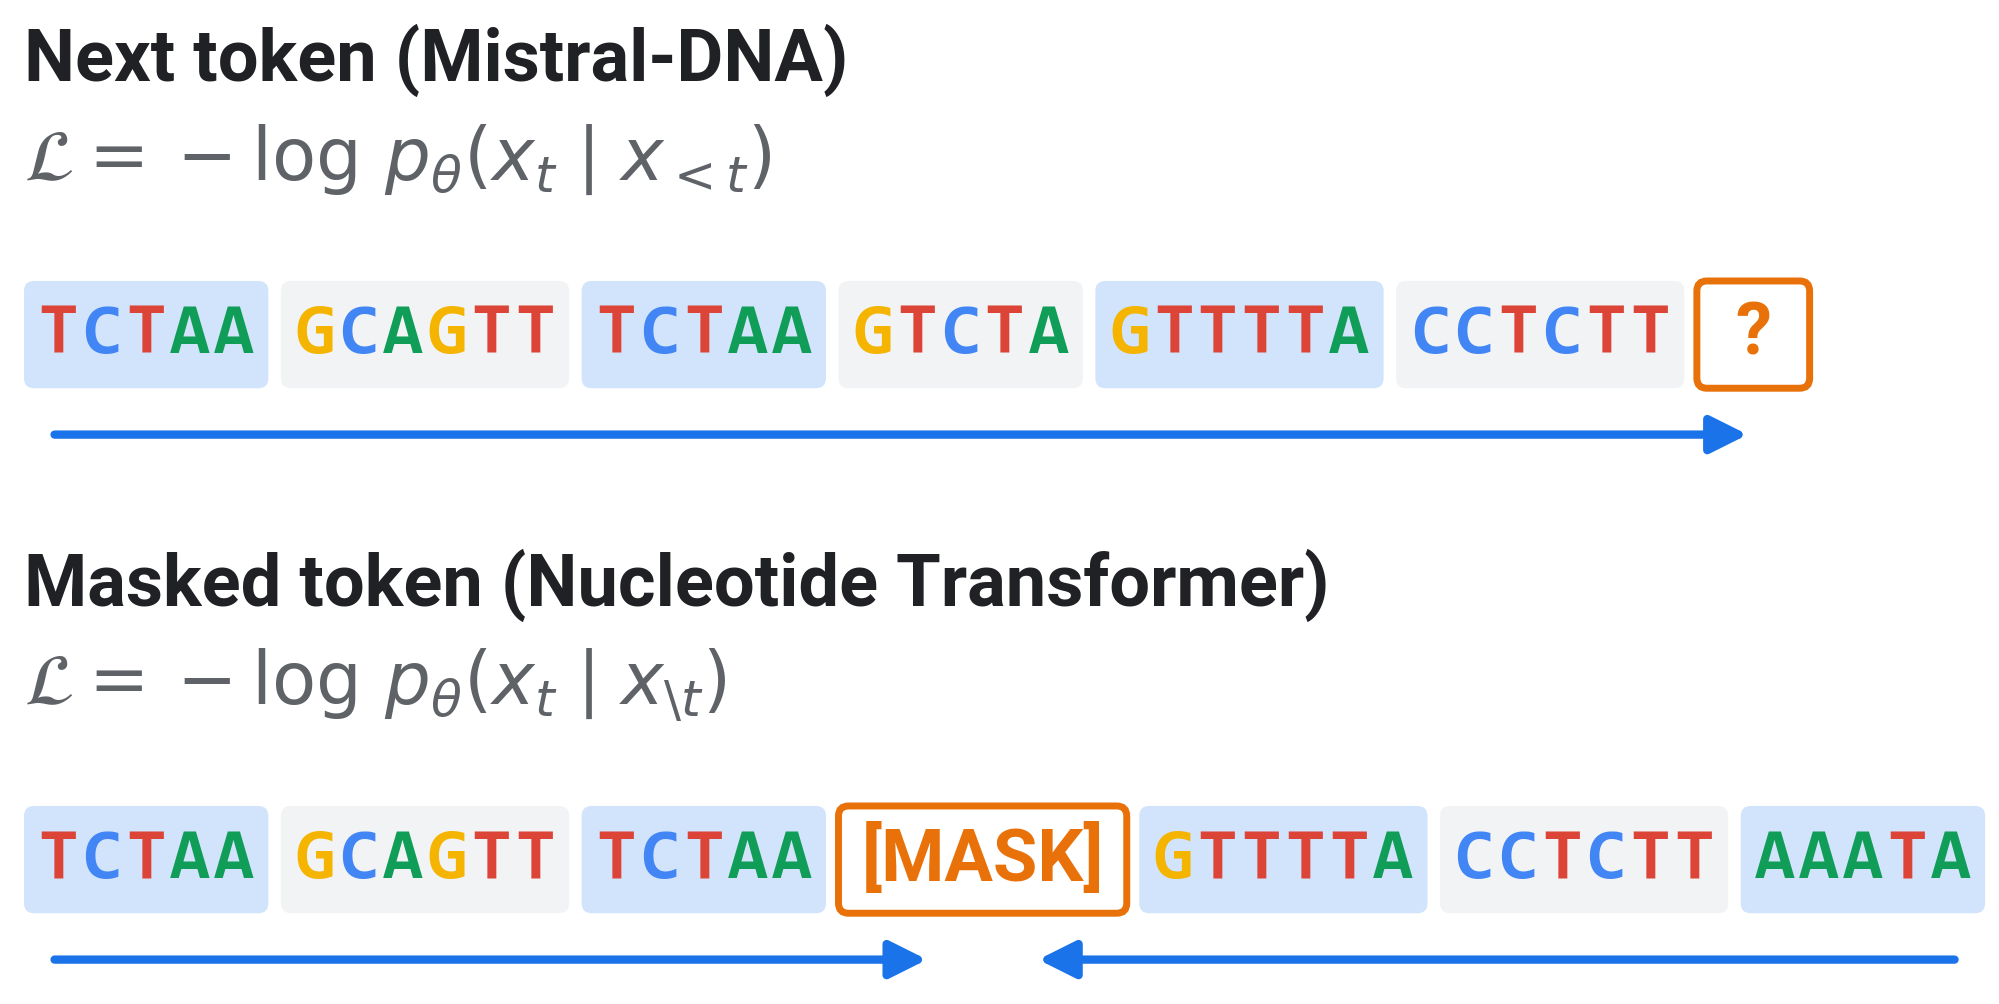
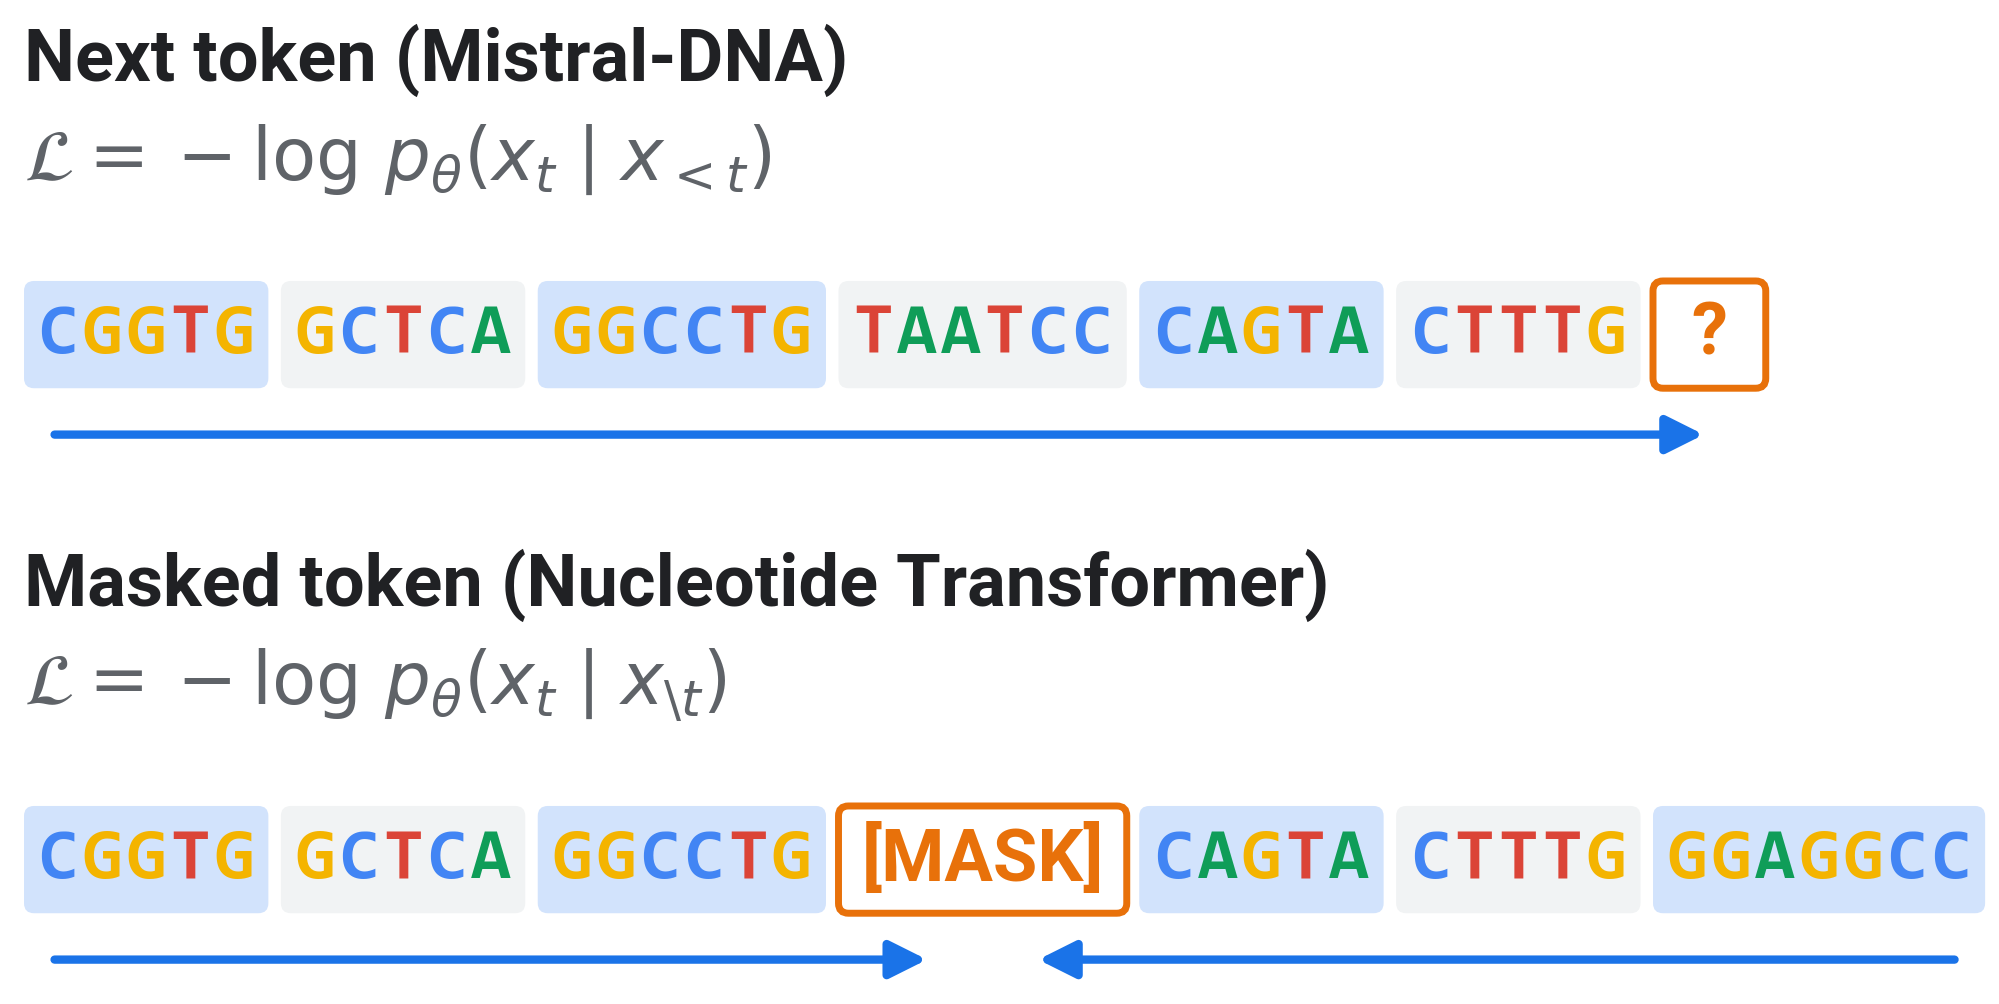
Deck 2: new 1.1 recaps part 1's CNN as body, embedding and head; next-token example where the true token is the top guess; body labels no longer cropped

diff --git a/slides/02_foundation_models.html b/slides/02_foundation_models.html
@@ -153,8 +153,34 @@
 
 </section>
 
+<section id="part-1-in-three-parts" class="slide level2">
+<h2>1.1 Part 1, in three parts</h2>
+<div class="quarto-figure quarto-figure-center">
+<figure>
+<p><img data-src="assets/custom/d2_cnn_recap.png" class="quarto-figure quarto-figure-center" height="766"></p>
+</figure>
+</div>
+<aside class="notes">
+<ul>
+<li>Our CNN from part 1, drawn the way the rest of this part draws every model.</li>
+<li>Body: the convolution blocks turn a sequence into numbers that describe it. Embedding: the 1,060 numbers after flatten. Head: the linear layer and the sigmoid turn them into one answer, P(bound).</li>
+<li>Here every part was trained from scratch on our 92,346 labelled sequences.</li>
+<li>This part keeps the picture and changes one thing: the body is learned first, from unlabelled genome sequence, and only a small head is trained on our labels.</li>
+</ul>
+<style type="text/css">
+        span.MJX_Assistive_MathML {
+          position:absolute!important;
+          clip: rect(1px, 1px, 1px, 1px);
+          padding: 1px 0 0 0!important;
+          border: 0!important;
+          height: 1px!important;
+          width: 1px!important;
+          overflow: hidden!important;
+          display:block!important;
+      }</style></aside>
+</section>
 <section id="pretraining-by-analogy" class="slide level2">
-<h2>1.1 Pretraining, by analogy</h2>
+<h2>1.2 Pretraining, by analogy</h2>
 <div class="r-stack">
 <p><img data-src="assets/custom/pretrain_analogy_0.png" height="742"></p>
 <p><img data-src="assets/custom/pretrain_analogy_1.png" class="fragment" height="742"></p>
@@ -179,7 +205,7 @@
       }</style></aside>
 </section>
 <section id="pretraining-a-model" class="slide level2">
-<h2>1.2 Pretraining a model</h2>
+<h2>1.3 Pretraining a model</h2>
 <div class="r-stack">
 <p><img data-src="assets/custom/d2_adapt_0.png" height="742"></p>
 </div>
@@ -203,7 +229,7 @@
       }</style></aside>
 </section>
 <section id="one-model-many-tasks" class="slide level2">
-<h2>1.3 One model, many tasks</h2>
+<h2>1.4 One model, many tasks</h2>
 <div class="r-stack">
 <p><img data-src="assets/custom/d2_adapt_1.png" height="742"></p>
 <p><img data-src="assets/custom/d2_adapt_2.png" class="fragment" height="742"></p>
@@ -230,7 +256,7 @@
       }</style></aside>
 </section>
 <section id="two-pretraining-objectives" class="slide level2">
-<h2>1.4 Two pretraining objectives</h2>
+<h2>1.5 Two pretraining objectives</h2>
 <div class="r-stack">
 <p><img data-src="assets/custom/d2_obj_0.png" height="723"></p>
 <p><img data-src="assets/custom/d2_obj_1.png" class="fragment" height="723"></p>
@@ -255,7 +281,7 @@
       }</style></aside>
 </section>
 <section id="what-the-model-predicts" class="slide level2">
-<h2>1.5 What the model predicts</h2>
+<h2>1.6 What the model predicts</h2>
 <div class="quarto-figure quarto-figure-center">
 <figure>
 <p><img data-src="assets/custom/d2_next.png" class="quarto-figure quarto-figure-center" height="766"></p>
@@ -263,9 +289,9 @@
 </div>
 <aside class="notes">
 <ul>
-<li>Mistral-DNA, given the real context of the last slide, gives a probability to each of its 4,096 possible next tokens. Blue: its six most likely tokens, with their probabilities. Orange: the token that actually comes next, AAATA.</li>
-<li>Its top choice gets 0.10. The true token gets less than 0.0001 and ranks 2,362 of 4,096: the model was wrong here.</li>
-<li>Much of the genome is hard to predict from local context, so the loss stays high even in a trained model.</li>
+<li>Mistral-DNA, given the real context of the last slides, gives a probability to each of its 4,096 possible next tokens. The bars are its eight most likely tokens.</li>
+<li>Orange: the token that actually comes next, GGAGGCC. It is the model’s top choice, at 0.33; the next guesses are longer or shorter versions of it.</li>
+<li>A well-chosen example: on most positions of the genome the true token gets a much lower probability, because much of the genome is hard to predict from local context. The loss stays high even in a trained model.</li>
 <li>The head turns one score per vocabulary token into these probabilities with the softmax (section 5).</li>
 </ul>
 <style type="text/css">
@@ -281,7 +307,7 @@
       }</style></aside>
 </section>
 <section id="four-stages" class="slide level2">
-<h2>1.6 Four stages</h2>
+<h2>1.7 Four stages</h2>
 <div class="r-stack">
 <p><img data-src="assets/custom/d2_stages_0.png" height="742"></p>
 <p><img data-src="assets/custom/d2_stages_1.png" class="fragment" height="742"></p>
@@ -295,7 +321,7 @@
 <li>The example is real: Mistral-DNA on the first 40 letters of one bound sequence (its first 6 tokens shown). One click per stage.</li>
 <li>Click, tokenization: the letters are cut into tokens (section 2).</li>
 <li>Click, embedding: each token becomes a row of 256 numbers taken from a learned table, its <strong>token embedding</strong> (section 3; the first 40 numbers shown). The same token always gets the same row.</li>
-<li>Click, body: the transformer turns them into <strong>contextual embeddings</strong>: still one row per token, but now each row depends on all the tokens (section 4). These are the embeddings of slide 1.2.</li>
+<li>Click, body: the transformer turns them into <strong>contextual embeddings</strong>: still one row per token, but now each row depends on all the tokens (section 4). These are the embeddings of slide 1.3.</li>
 <li>Click, head: in pretraining it predicts the next token; for our task, P(bound), the probability that AGO2 binds (section 5).</li>
 </ul>
 <style type="text/css">
@@ -539,7 +565,7 @@
 </div>
 <aside class="notes">
 <ul>
-<li>The same four stages as slide 1.6, at the same place on the slide.</li>
+<li>The same four stages as slide 1.7, at the same place on the slide.</li>
 <li>First the CNN of part 1: single letters, a fixed one-hot table, two convolution layers, one linear layer to a logit.</li>
 <li>Click: Mistral-DNA, stage by stage: BPE tokens (slide 2.3), a learned table (slide 3.1), a transformer body (slide 4.1), and a head for the next token or for your task.</li>
 <li>The CNN’s stages were fixed by us (one-hot) or trained on 92,346 labels. A language model learns its embedding and body from unlabelled genome sequence first.</li>
@@ -573,7 +599,7 @@
 <ul>
 <li>Left: the body’s output for the sequence of slide 4.2, one row of 256 numbers per token: its contextual embeddings. One head per click.</li>
 <li>Next token: the last token’s row goes through a linear layer to 4,096 scores, one per vocabulary token; the softmax turns them into probabilities that sum to 1. Masked token: the same, from the hidden token’s row.</li>
-<li>These two are the pretraining heads (slide 1.4). After pretraining they are dropped; the embedding table and the body are kept.</li>
+<li>These two are the pretraining heads (slide 1.5). After pretraining they are dropped; the embedding table and the body are kept.</li>
 <li>Our task: the average of all rows, the <strong>sequence embedding</strong> (the 256 numbers of slide 4.2), goes through one linear layer to one number, then the sigmoid: P(bound).</li>
 </ul>
 <style type="text/css">

diff --git a/slides/figures/figs_deck2.py b/slides/figures/figs_deck2.py
@@ -15,7 +15,7 @@ import torch
 from matplotlib.patches import FancyBboxPatch, Rectangle
 
 from deckstyle import *  # noqa: F401,F403
-from figs_d2 import MISTRAL, STAGES, real_context, save_raw
+from figs_d2 import EXAMPLE_CUT, EXAMPLE_SEQ, MISTRAL, STAGES, real_context, save_raw
 from figs_parts import bound_window
 from intuition import split
 
@@ -148,6 +148,40 @@ def adapt(tok, fm, pos):
     trim_group(names)
 
 
+# ------------------------------------------------------------------ 1.1 part 1's CNN, in the body / embedding / head picture
+def cnn_recap(pos):
+    """The CNN of part 1 drawn exactly like the pretrained model of the next slides: body, embedding, head."""
+    from intuition import cnn_scores, load_cnn, onehot
+    model = load_cnn()
+    s = pos[0]
+    with torch.no_grad():
+        feats = model.net[:-1](onehot([s]).to(next(model.parameters()).device)).cpu().numpy()[0]
+    p = float(cnn_scores(model, [s])[0])
+    e = feats[np.argsort(-np.abs(feats))[:10]][np.random.default_rng(0).permutation(10)]   # 10 of the 1,060 numbers
+    fig, ax, H = canvas3("d2_adapt_0")
+    top = H - 6
+    tok_row(ax, 2, top, list(s[150:162]) + ["…"], fs=22)
+    arrow(ax, 22, top - 6, 22, top - 13, color=MUTED, lw=2.5, ms=24)
+    ax.add_patch(FancyBboxPatch((4, 12), 36, top - 26, boxstyle="round,pad=0,rounding_size=1.4", fc=CNN_C, ec="none"))
+    mid = (top - 14) / 2 + 12
+    label(ax, 22, mid + 9, "CNN", fs=30, color="white", bold=True)
+    label(ax, 22, mid - 7, "convolution,\nReLU, pooling\n(2 blocks)", fs=19, color="white")
+    label(ax, 22, 5, "Body", fs=24, color=CNN_C, bold=True)
+    arrow(ax, 41, mid, 47, mid, color=MUTED, lw=2.5, ms=24)
+    strip(ax, 48, mid - 16, 6, 32, e, np.abs(e).max(), vertical=True)
+    label(ax, 51, 5, "Embedding", fs=22, color=INK, bold=True)
+    label(ax, 57, mid - 18, "1,060 numbers\nafter flatten", fs=19, color=MUTED, ha="left")
+    arrow(ax, 55, mid, 63, mid, color=MUTED, lw=2.5, ms=22)
+    blk(ax, 64, mid - 7, 40, 14, "linear head", fc=CNN_C, fs=24)
+    arrow(ax, 105, mid, 111, mid, color=MUTED, lw=2.5, ms=22)
+    label(ax, 113, mid, f"sigmoid\nP(bound) = {p:.2f}", fs=24, ha="left")
+    label(ax, 84, 5, "Head", fs=22, color=CNN_C, bold=True)
+    label(ax, 64, mid + 20, "all of it trained from scratch\non our 92,346 labelled sequences", fs=22, color=CNN_C,
+          ha="left", bold=True)
+    save_raw(fig, "d2_cnn_recap")
+    trim_group(["d2_cnn_recap"])
+
+
 # ------------------------------------------------------------------ 1.4 two objectives
 def objectives(tok, pos):
     ctx, nxt = real_context(tok, pos, n_show=6)
@@ -178,32 +212,32 @@ def objectives(tok, pos):
 def next_probs(tok, pos):
     from transformers import AutoModelForCausalLM
     lm = AutoModelForCausalLM.from_pretrained(MISTRAL, trust_remote_code=True).eval()
-    ids = tok(pos[7].replace("U", "T"), return_tensors="pt", add_special_tokens=False)["input_ids"][0]
-    cut = 14
+    ids = tok(pos[EXAMPLE_SEQ].replace("U", "T"), return_tensors="pt", add_special_tokens=False)["input_ids"][0]
+    cut = EXAMPLE_CUT
     with torch.no_grad():
         p = torch.softmax(lm(input_ids=ids[None, :cut]).logits[0, -1], -1)
     true = int(ids[cut])
     rank = int((p > p[true]).sum()) + 1
-    top = torch.topk(p, 6)
-    items = [(tok.convert_ids_to_tokens(int(i)).replace("▁", ""), float(v), False) for v, i in zip(top.values, top.indices)]
-    items.append((tok.convert_ids_to_tokens(true).replace("▁", ""), float(p[true]), True))
+    top = torch.topk(p, 8)
+    items = [(tok.convert_ids_to_tokens(int(i)).replace("▁", ""), float(v), int(i) == true)
+             for v, i in zip(top.values, top.indices)]
+    assert any(t for *_, t in items), "the example's true token should be among the top guesses"
     fig = plt.figure(figsize=(10, 10 / (ASPECT.get("d2_next") or 1.88)), dpi=120)
     fig._canvas = True
-    ax = fig.add_axes([0.2, 0.14, 0.62, 0.8])
-    ys = list(range(len(items) - 1)) + [len(items)]
+    ax = fig.add_axes([0.2, 0.15, 0.62, 0.8])
+    ys = list(range(len(items)))
     ax.barh(ys, [v for _, v, _ in items], color=[HELD_C if t else TRAIN_L for *_, t in items], height=0.72)
     for y, (n, v, t) in zip(ys, items):
-        txt = f"{v:.3f}" if not t else (f"{v:.4f}" if v >= 1e-4 else "below 0.0001") + f", rank {rank:,} of 4,096"
-        ax.text(v + 0.0015, y, txt, va="center", fontsize=22, color=HELD_C if t else INK)
-    ax.set_yticks(ys); ax.set_yticklabels([n + ("  true" if t else "") for n, _, t in items], family=MONO, fontsize=22)
+        ax.text(v + 0.004, y, f"{v:.2f}" + ("   the true next token" if t else ""), va="center", fontsize=22,
+                color=HELD_C if t else INK, fontweight="bold" if t else "normal")
+    ax.set_yticks(ys); ax.set_yticklabels([n for n, _, _ in items], family=MONO, fontsize=22)
     for lab, (_, _, t) in zip(ax.get_yticklabels(), items):
-        lab.set_color(HELD_C if t else INK)
+        lab.set_color(HELD_C if t else INK); lab.set_fontweight("bold" if t else "normal")
     ax.invert_yaxis(); ax.tick_params(axis="y", length=0); ax.spines["left"].set_visible(False)
-    ax.set_xlim(0, top.values[0].item() * 1.35)
-    ax.set_xlabel("Predicted probability of the next token", fontsize=22); ax.tick_params(axis="x", labelsize=20)
-    ax.text(-0.02 * top.values[0].item(), len(items) - 1, "…", fontsize=26, color=MUTED, ha="right", va="center")
+    ax.set_xlim(0, top.values[0].item() * 1.6)
+    ax.set_xlabel("Predicted probability of the next token (top 8 of 4,096)", fontsize=22); ax.tick_params(axis="x", labelsize=20)
     fig.savefig(OUT / "d2_next.png", dpi=200, facecolor="white"); plt.close(fig); trim(OUT / "d2_next.png")
-    print("next_probs true", items[-1][0], round(items[-1][1], 5), "rank", rank, "top", items[0][0], round(items[0][1], 3))
+    print("next_probs rank of the true token", rank, "top", items[0][0], round(items[0][1], 3))
 
 
 # ------------------------------------------------------------------ 1.6 four stages with a worked example, and 4.3 the comparison
@@ -404,8 +438,8 @@ def body_context(tok, fm, pos):
             strip(ax, 101, y - 22, 56, 6, vo, vout)
         left = "the same row in both" if k == 1 else f"token embedding of {txt}"
         right = "different rows" if k == 1 else f"contextual embedding"
-        label(ax, 29, 4, left, fs=22, color=ACCENT, bold=True)
-        label(ax, 129, 4, right, fs=22, color=ACCENT, bold=True)
+        label(ax, 2, 4, left, fs=22, color=ACCENT, bold=True, ha="left")      # starts at the strip, never off the edge
+        label(ax, 157, 4, right, fs=22, color=ACCENT, bold=True, ha="right")
         nm = f"d2_body_{k}"; save_raw(fig, nm); names.append(nm)
     trim_group(names)
     print("body token", txt, "cos", round(cos, 3), "inputs equal", bool(np.allclose(rows[0][2], rows[1][2])))
@@ -554,7 +588,7 @@ if __name__ == "__main__":
     tr, ty = split("train")
     pos = [s for s, l in zip(tr, ty) if l == 1]
     tok, fm = model_and_tokenizer()
-    for n, job in [("adapt", lambda: adapt(tok, fm, pos)), ("objectives", lambda: objectives(tok, pos)),
+    for n, job in [("cnn_recap", lambda: cnn_recap(pos)), ("adapt", lambda: adapt(tok, fm, pos)), ("objectives", lambda: objectives(tok, pos)),
                    ("next", lambda: next_probs(tok, pos)), ("stages", lambda: stage_frames(tok, fm, pos)),
                    ("bpe", lambda: bpe_steps(tok, pos)), ("emb", lambda: emb_matmul(tok, fm, pos)),
                    ("body", lambda: body_context(tok, fm, pos)), ("heads", lambda: heads(tok, fm, pos)),

diff --git a/slides/figures/figs_d2.py b/slides/figures/figs_d2.py
@@ -50,8 +50,11 @@ def token_row(ax, x, y, toks, fs=22, cw=None, colored=True, hide=None, hide_text
 
 
 # ------------------------------------------------------------------ the real example: a context and its next token
-def real_context(tok, pos, cut=14, n_show=6):
-    ids = tok(pos[7].replace("U", "T"), return_tensors="pt", add_special_tokens=False)["input_ids"][0]
+EXAMPLE_SEQ, EXAMPLE_CUT = 282, 23                     # a real bound sequence where the true next token is the top guess
+
+
+def real_context(tok, pos, cut=EXAMPLE_CUT, n_show=6):
+    ids = tok(pos[EXAMPLE_SEQ].replace("U", "T"), return_tensors="pt", add_special_tokens=False)["input_ids"][0]
     toks = [t.replace("▁", "") for t in tok.convert_ids_to_tokens(ids[:cut + 1])]
     return toks[cut - n_show:cut], toks[cut]
 
